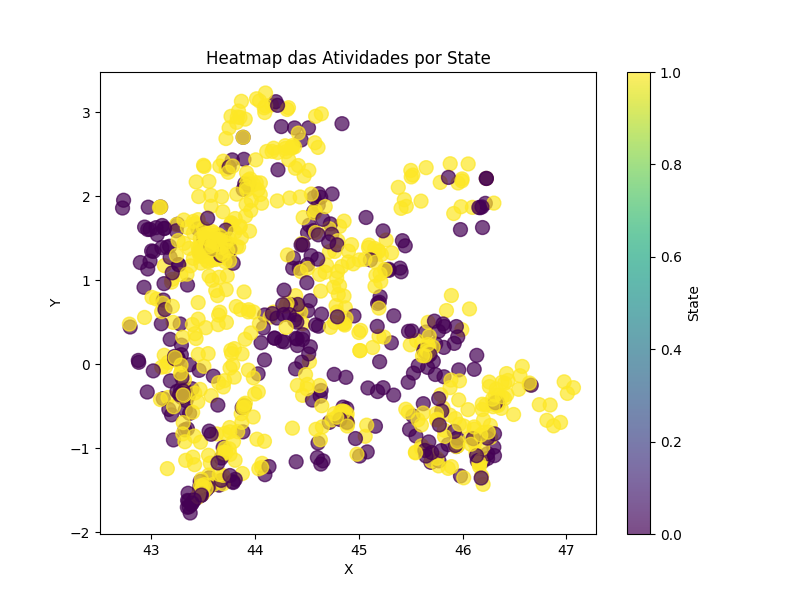
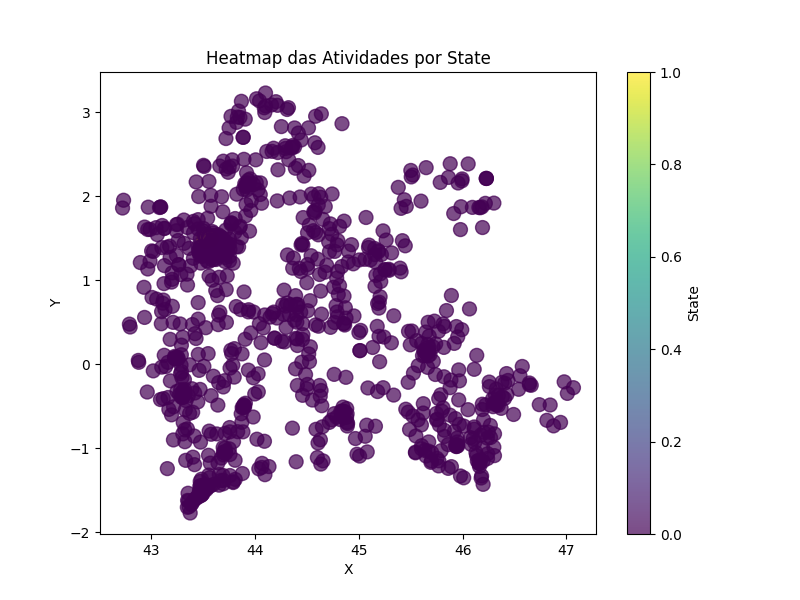
deu
parece estar como se quer agora.

agora aplicar diferentes métodos de clustering, comparar e colocar no relatório

Changed region(s): [[0.1562, 0.12, 0.75, 0.84], [0.4688, 0.24, 0.625, 0.39]]

diff --git a/Clustering.py b/Clustering.py
@@ -1,4 +1,5 @@
 import math
+from re import L
 
 from matplotlib.pylab import f
 from Workers import *
@@ -59,8 +60,18 @@ def Distance_Calculator( x1, y1, x2, y2):
 
 
 class KNearest_Nei:
-
     def __init__(self, atividade, distancia):
+        """
+        Inicializa a MinhaClasse com um atividade e a distancia ao trabalhador.
+
+       
+        Parameters
+        ----------
+        atividade: (Atividade)
+            Atividade que esta a ser ponderada.
+        distancia: (Double) 
+            distancia em KM entre o local de partida do trabalhador e a atividade.
+        """
         self.atividade = atividade
         self.distancia = distancia
     # se for menor tem de retornar true
@@ -69,9 +80,34 @@ class KNearest_Nei:
 
 
 
-def KNearest_Neighbors_Vote_in(kNearest_Nei, workblock, skills):
-    if (kNearest_Nei.atividade.state == 0) and (kNearest_Nei.atividade.appointment < workblock.finish) and (kNearest_Nei.atividade.appointment > workblock.start) and (kNearest_Nei.atividade.skill in skills):
+def KNearest_Neighbors_Vote_in(atividade, workblock, skills):
+    """
+    Esta função verifica se a tarefa deve ser contada para o clustering do workblick ou não, verifica o estado da atividade, verifica o hora de marcação e se possiu as skills necessárias
+
+    Parameters
+    ----------
+    kNearest_Nei: (KNearest_Nei)
+        elemento a comparar com o bloco de trabalho para ver se entra.
+    workblock: (WorkBlock)
+        workblock que estamos a fazer o clustering das atividades para.
+    skills: (list of str)
+        lista das skills que o trabalhador possuiu.
+
+    Returns
+    -------
+    tipo
+        retorna True ou False, conforme se é para ser adicionada a lista ou não.
+    """
+
+    if atividade.appointment != time(0, 0):
+  
+        if (atividade.state != 1) and (atividade.appointment < workblock.finish) and (atividade.appointment > workblock.start) and (atividade.skill in skills):
+            return True
+   
+    elif (atividade.state != 1) and (atividade.skill in skills):
         return True
+
+    return False
 
 
 def KNearest_Neighbors(list_activities, list_workers, workblock, k):
@@ -87,11 +123,85 @@ def KNearest_Neighbors(list_activities, list_workers, workblock, k):
     count = 0
     indi = 0
     while count < k:
-        if KNearest_Neighbors_Vote_in(distances[indi], workblock, worker.skill): # type: ignore
+        if KNearest_Neighbors_Vote_in(distances[indi].atividade, workblock, worker.skill): # type: ignore
             list_temp.append(distances[indi].atividade)
             count += 1
         indi += 1
     return  list_temp
+
+
+
+
+class Coordenada:
+    def __init__(self, x, y):
+        """
+        Inicializa a MinhaClasse com um x e um y, que são as coordenadas.
+
+       
+        Parameters
+        ----------
+        x: (Int)
+            coordenada do x.
+        y: (Int) 
+            coordendada do y.
+        """
+        self.x = x
+        self.y = y
+
+def KNearest_Neighbors2(list_activities, list_workers, workblock, k):
+    """
+    Esta função faz o clustering das atividades para o workblock.
+
+    Parameters
+    ----------
+    list_activities: (list of Activity)
+        lista de todas as atividades a ponderar para o clustering.
+    list_workers: (list of Workers)
+        lista de todos os trabalhadores a ponderar para o clustering.
+    workblock: (Workblock)
+        workblock a ponderar para o clustering.
+    k: (Int)
+        quantidade de Atividades a colocar no cluster.
+
+    Returns
+    -------
+    list of Activity
+        Retorna uma lista de atividades, que é o cluster final.
+    """
+
+    # lista com os Atividades com a respetiva distancia
+    distances = []
+
+    # lista com as coordenadas dos elementos que já pertencem ao cluster
+    list_coordenada_temp = []
+
+    # lista com os elementes que já pertencem
+    list_cluster = []
+
+    # trabalhador que vai realizar este workblock
+    worker = Find_Worker_By_Id(list_workers, workblock.idWorker)
+
+    list_coordenada_temp.append(Coordenada(worker.x, worker.y)) # type: ignore
+    for count in range(k):
+
+        # colocar as atividades por ordem
+        for activity in list_activities:
+
+            # verificar se a atividade ainda não está a ser considerada.
+            if activity.state == 0:
+                for coord in list_coordenada_temp:
+                    distance = Distance_Calculator(activity.x, activity.y, coord.x, coord.y)
+                    if KNearest_Neighbors_Vote_in(activity, workblock, worker.skill): # type: ignore
+                        distances.append(KNearest_Nei(activity, distance))
+        
+        distances = sorted(distances)
+        atividade_in = distances[0].atividade
+        atividade_in.state = 2 
+        list_coordenada_temp.append(Coordenada(atividade_in.x, atividade_in.y)) # type: ignore
+        list_cluster.append(atividade_in)
+        distances.clear()
+
+    return  list_cluster
     
 
 def DBSCANS(list_activities, list_workers, work_Block, cluster, distance_Min, distance_Max, iterations_Max):

diff --git a/Optimization.py b/Optimization.py
@@ -100,82 +100,24 @@ def Greedy(worker_Activities_Cluster, workBlock, skills_dict, list_workers, valu
 
     while frontier:
     
+        # atribuição das vars constantes que vêm do Excel
         travel_Time_By_1KM = values_dict['TRAVEL_TIME']
-
         tolerance_For_Activity_Post = values_dict['WINDOW_TIME_POST']
         tolerance_For_Activity_Pre = values_dict['WINDOW_TIME_PRE']
         
-
+        # oragnizar a lista da fronteira, copiar o primeiro elemento, o com o menor custo
         frontier = sorted(frontier)
-       
-        
-
-        
-        
-
-        
-
-        # organizar as "extermidades" de cada "ramo" por custo
-        
-        # pegar no ramo com menor custo
-
-        
         current_Node = frontier[0]
-        '''
-        print('\n\n\n RAMOS Extermidades')
-        for node in frontier:
-            print('Extermidade - ' + str(node.id))
-            current_Node = node
-            while current_Node:
-                current_Node.printNode()
-                current_Node = current_Node.parent
 
-        
-        print('\n Escolhido \n' + str(frontier[0].id))
-        '''
-        
-
-            
-        '''
-        current_Node = frontier[0]
-        print('\n\n\n RAMOS Extermidades')
-        for node in frontier:
-            print('Extermidade - ' + str(node.id))
-            current_Node = node
-            while current_Node:
-                current_Node.printNode()
-                current_Node = current_Node.parent
-
-        
-        print('\n Escolhido \n' + str(frontier[0].id))
-
-        while current_Node:
-            current_Node.printNode()
-            current_Node = current_Node.parent
-        
-
-        
-        print("Enter para continuar...")
-        input()
-        '''
-        
-
-
-        current_Node = frontier[0]
-        #remover o ramo como extermidade (depois adiciono as novas "extermidades" provenientes desta "extermidade", se não existirem novas extermidades, solução encontrada)
-        # frontier.remove(current_Node)
-
+        # o tempo do node
         current_Time = current_Node.end_Time
         foundActivity = False
-        print('Atual: ', current_Time)
 
-        '''
-        print("Enter para continuar...")
-        input()
-        '''
+
         travel_Time_Returning = 0
         for activity in worker_Activities_Cluster:
-
+            
+            # como só guardamos o id da tarefa no nó, vamos buscar a última atividade realizada pelo id
             current_Activity = Find_Activity_By_Id(worker_Activities_Cluster,current_Node.id)
 
             if not current_Activity:
@@ -192,25 +134,19 @@ def Greedy(worker_Activities_Cluster, workBlock, skills_dict, list_workers, valu
             # Hora de Chegada a Atividade
             datetime_Arraival = current_Time + timedelta(minutes=travel_Time_Going)
 
-            # Verificar se consegue chegar a tempo a Atividade
+            # verificar se a atividade já foi usada antes neste ramo, basicamente anda para trás a ver as tarefas anteriores, se não estiver lá ele deixa, se estivar lá, não deixa
             if not Belongs_to_Family(current_Node, activity.idActivity):
 
+                # nesta parte verifica os limites do tempo, vai sair daqui
                 time_Tolerance_For_Activity_Post = timedelta(minutes=tolerance_For_Activity_Post)
-                # max_Time_Activity = activity.appointment + time_Tolerance_For_Activity_Post
                 max_Time_Activity = datetime.combine(datetime.now().date(), activity.appointment) + time_Tolerance_For_Activity_Post
 
 
                 time_Tolerance_For_Activity_Pre = timedelta(minutes=tolerance_For_Activity_Pre)
-                # min_Time_Activity = activity.appointment - time_Tolerance_For_Activity_Pre
                 min_Time_Activity = datetime.combine(datetime.now().date(), activity.appointment) - time_Tolerance_For_Activity_Pre
                 
                 
-                # print('\n\n\n')
-                # print(datetime_Arraival.time())
-                # print('<')
-                # print(max_Time_Activity.time())
-                # print('\n')
-                # Está antes do limite máximo para comparecer.
+                # Verificar se consegue chegar a tempo a Atividade
                 if datetime_Arraival.time() < max_Time_Activity.time():
                     # print('Passou')
 

diff --git a/Teste.py b/Teste.py
@@ -1,3 +1,50 @@
+
+class Atividade:
+    # Esta é uma classe de exemplo para representar a atividade
+    def __init__(self, nome):
+        self.nome = nome
+
+class KNearest_Nei:
+    def __init__(self, atividade, distancia):
+        """
+        Inicializa a MinhaClasse com uma atividade e a distancia ao trabalhador.
+
+        Parameters
+        ----------
+        atividade: (Atividade)
+            Atividade que está sendo ponderada.
+        distancia: (float)
+            Distância em KM entre o local de partida do trabalhador e a atividade.
+        """
+        self.atividade = atividade
+        self.distancia = distancia
+
+    # se for menor tem de retornar true
+    def __lt__(self, other):
+        return self.distancia < other.distancia
+
+# Criando uma lista de objetos KNearest_Nei para exemplo
+atividade1 = Atividade("Atividade 1")
+atividade2 = Atividade("Atividade 2")
+atividade3 = Atividade("Atividade 3")
+
+lista_de_atividades = [
+    KNearest_Nei(atividade1, 10.0),
+    KNearest_Nei(atividade2, 5.0),
+    KNearest_Nei(atividade3, 8.0)
+]
+
+# Encontre o menor elemento com base na distância
+menor_elemento = min(lista_de_atividades)
+
+# O menor_elemento agora é o objeto KNearest_Nei com a menor distância
+print(f"A atividade com a menor distância é: {menor_elemento.atividade.nome}")
+print(f"A distância é: {menor_elemento.distancia} km")
+
+
+
+
+'''
 import googlemaps
 import gmplot
 from datetime import datetime
@@ -22,6 +69,7 @@ pontos_intermediarios = [
 link = generate_google_maps_link(ponto_partida, pontos_intermediarios, destino)
 print(link)
 
+'''
 # https://www.google.com/maps/dir/40.0529878,-7.5434624/37.71520740124046,4.766190413644785/42.7557875,1.6430955/
 
 # https://www.google.com/maps/dir/40.0529878,-7.5434624/37.71520740124046,+-4.766190413644785/42.7557875,1.6430955/@40.076335,-8.1972655,6z/data=!3m1!4b1!4m8!4m7!1m0!1m3!2m2!1d-4.7661904!2d37.7152074!1m0!3e0?entry=ttu

diff --git a/Main.py b/Main.py
@@ -48,7 +48,7 @@ gmaps = googlemaps.Client(key=api_key)
 start_time = datetime.now()
 
 # Carregar os dados do arquivo Excel
-workers_xlsx = pd.read_excel('DATA.xlsx', sheet_name='WORKERS') # type: ignore
+workers_xlsx = pd.read_excel('DATA.xlsx', sheet_name='WORKER') # type: ignore
 
 activities_xlsx = pd.read_excel('DATA.xlsx', sheet_name='ACTIVITIES')
 
@@ -121,22 +121,11 @@ for worker in list_workers:
 list_worker_activityQuantity = []
 for work_Block in list_work_blocks:
 
-    cluster = KNearest_Neighbors(list_activities, list_workers, work_Block, int(values_dict['K_NEAREST_NEIGHBORS']))
+    cluster = KNearest_Neighbors2(list_activities, list_workers, work_Block, 10)
 
+    # cluster = KNearest_Neighbors(list_activities, list_workers, work_Block, int(values_dict['K_NEAREST_NEIGHBORS']))
 
-    # print("As 5 activities mais próximas:")
-    # for activity in cluster:
-        # activity.printActivity()
-
-
-    DBSCANS(list_activities, list_workers, work_Block, cluster, values_dict['MIN_BDSCANS_DISTANCE'], values_dict['MAX_BDSCANS_DISTANCE'], int(values_dict['DBSCANS_IT_NUM']))
-
-    # print("\n\nNovo Cluster:\n")
-    # print('Size: ', len(cluster))
-    # for activity in cluster:
-    #     activity.printActivity()
-
-
+    # DBSCANS(list_activities, list_workers, work_Block, cluster, values_dict['MIN_BDSCANS_DISTANCE'], values_dict['MAX_BDSCANS_DISTANCE'], int(values_dict['DBSCANS_IT_NUM']))
 
     def activitiesToState1(nodes):
         for node in nodes:

diff --git a/Helper.py b/Helper.py
@@ -13,7 +13,7 @@ class Stats:
         self.total = self.total + 1
 
     def print(self):
-        print('Hora de marcação:',self.tipo)
+        print('Tipo Atividade:',self.tipo)
         print('TOTAL: ', self.total, ' ATIVA: ', self.active,' PERCENT: ', (100/self.total * self.active),'\n')
 
     def __lt__(self, other):
